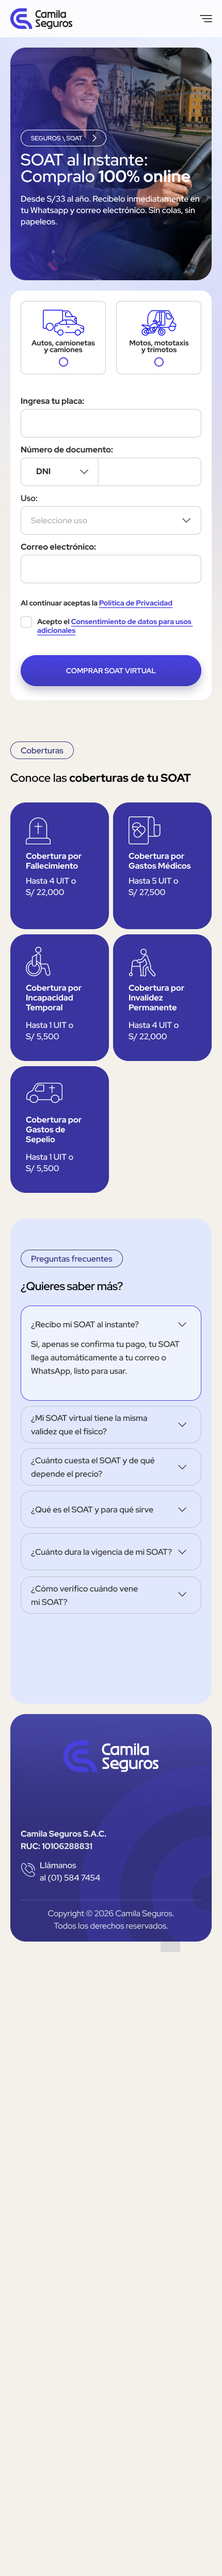
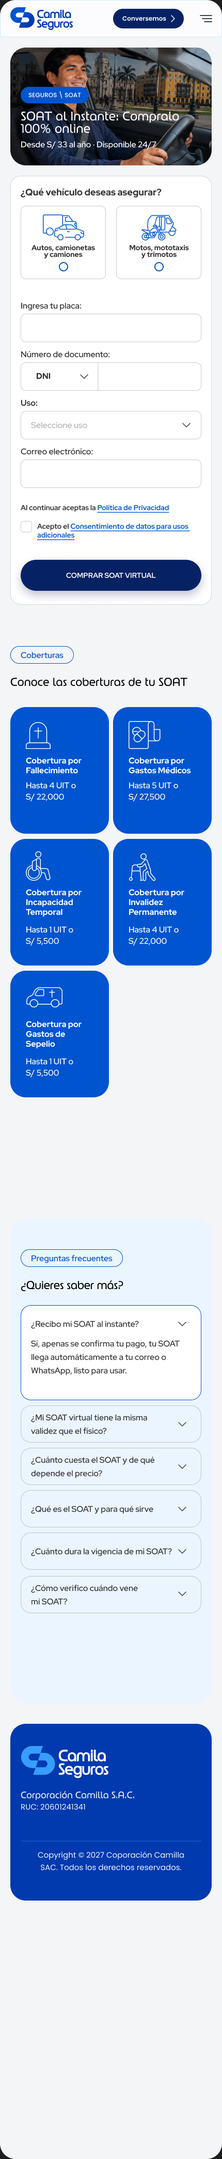
Shrink the mobile hero and title the home form, per the client's new design

diff --git a/features/home/components/home-hero.tsx b/features/home/components/home-hero.tsx
@@ -2,18 +2,21 @@ import Image from "next/image";
 import { Pill } from "@/components/ui/pill";
 import { heroBenefits } from "../content";
 
-// Hero copy (Figma node 197:420 and 438:506). The panel photo is rendered by HomeHeroBackdrop.
+// Hero copy (Figma desktop 197:420; mobile "Home Mobile v2" 1076:142, a 228px panel). The panel photo is rendered by HomeHeroBackdrop.
 export function HomeHero() {
   return (
-    <div className="flex min-h-112.5 flex-col items-start justify-end gap-3 px-5 pt-10 pb-25 text-white lg:min-h-150 lg:justify-start lg:gap-6 lg:px-0 lg:pt-31.5 lg:pb-0">
+    <div className="flex min-h-57 flex-col items-start justify-end gap-3 px-5 pt-10 pb-7.5 text-white lg:min-h-150 lg:justify-start lg:gap-6 lg:px-0 lg:pt-31.5 lg:pb-0">
       <Pill tone="light">
         Seguros \ SOAT
-        <Image src="/icons/chevron-right.svg" alt="" width={7.5} height={13.5} />
+        {/* Figma "Home Mobile v2" drops the chevron. */}
+        <Image src="/icons/chevron-right.svg" alt="" width={7.5} height={13.5} className="hidden lg:block" />
       </Pill>
-      <h1 className="max-w-md text-title font-medium md:text-display">
+      <h1 className="max-w-md text-headline font-medium lg:text-display">
         SOAT al Instante: Cómpralo <strong className="font-bold">100% online</strong>
       </h1>
-      <p className="max-w-lg text-body">
+      {/* Mobile v2 shortens the copy so the hero fits in 228px. */}
+      <p className="-mt-1 max-w-lg text-body font-medium lg:hidden">Desde S/ 33 al año · Disponible 24/7</p>
+      <p className="hidden max-w-lg text-body lg:block">
         Desde S/33 al año. Recíbelo inmediatamente en tu Whatsapp y correo electrónico. Sin colas, sin papeleos.
       </p>
       {/* Figma mobile hides the benefits. */}
@@ -32,14 +35,15 @@ export function HomeHero() {
   );
 }
 
-// The photo is 1420×600 (exported at 2x). On narrow panels it is cropped to keep
-// the driver in view, as in the Figma mobile frame.
-const PHOTO_POSITION = { objectPosition: "62% 50%" };
+// The photo is 1420×600 (exported at 2x). On the short mobile panel it is cropped
+// to its right side, where Figma mobile v2 frames the driver (and on tablets, which
+// crop it vertically, kept near the top so his face stays in view).
+const PHOTO_POSITION = { objectPosition: "100% 30%" };
 
 /** Rounded wide panel with the hero photo and the navy veil behind the copy. */
 export function HomeHeroBackdrop() {
   return (
-    <div aria-hidden className="absolute inset-x-5 top-0 h-112.5 overflow-hidden rounded-panel bg-brand-900 lg:h-150">
+    <div aria-hidden className="absolute inset-x-5 top-0 h-57 overflow-hidden rounded-panel bg-brand-900 lg:h-150">
       <Image
         src="/images/hero-banner.jpg"
         alt=""

diff --git a/app/design-system/page.tsx b/app/design-system/page.tsx
@@ -42,7 +42,9 @@ const colors = [
 const typeScale = [
   { name: "display · 42", className: "text-display font-medium", sample: "SOAT al Instante" },
   { name: "title · 32", className: "text-title font-medium", sample: "Conoce las coberturas" },
+  { name: "headline · 24", className: "text-headline font-medium", sample: "SOAT al Instante" },
   { name: "subtitle · 20", className: "text-subtitle font-bold", sample: "SOAT La Positiva" },
+  { name: "lead · 18", className: "text-lead font-bold", sample: "¿Qué vehículo deseas asegurar?" },
   { name: "body · 16", className: "text-body", sample: "Recíbelo al momento en tu email." },
   { name: "label · 16", className: "text-label font-bold", sample: "Ingresa tu placa:" },
   { name: "small · 14", className: "text-small font-bold", sample: "Al continuar aceptas la Política de Privacidad" },

diff --git a/app/page.tsx b/app/page.tsx
@@ -5,9 +5,9 @@ import { HomeHero, HomeHeroBackdrop } from "@/features/home/components/home-hero
 import { QuoteStartForm } from "@/features/quote/components/quote-start-form";
 import { plateFromQuery } from "@/features/quote/lib/plate";
 
-// Figma "SOAT al instante" (197:293) / "Home Mobile" (559:46).
+// Figma "SOAT al instante" (197:293) / "Home Mobile v2" (1076:142).
 // Desktop: 12-column grid on the 1120px content width; the form (5 columns = 448px)
-// overlaps the hero panel and runs alongside the coverages. Mobile (Figma 559:46):
+// overlaps the hero panel and runs alongside the coverages. Mobile (Figma 1076:142):
 // hero copy inset 40px, form and coverages edge to edge at 20px.
 // `?plate=ABC-123` prefills the plate (links from other sites or campaigns).
 export default async function HomePage({ searchParams }: PageProps<"/">) {

diff --git a/features/quote/components/quote-start-form.tsx b/features/quote/components/quote-start-form.tsx
@@ -77,8 +77,10 @@ export function QuoteStartForm({ initialPlate }: QuoteStartFormProps) {
   }
 
   return (
-    <Card tone="surface" className="px-5 pt-7.5 pb-7 md:px-10">
+    <Card tone="surface" className="px-5 pt-5 pb-7 md:px-10 lg:pt-7.5">
       <form ref={formRef} noValidate onSubmit={handleSubmit} className="flex flex-col gap-3.5">
+        {/* Figma 1076:141 (desktop, 20px) and 1076:373 (mobile v2, 18px). */}
+        <h2 className="text-lead font-bold text-ink lg:text-subtitle">¿Qué vehículo deseas asegurar?</h2>
         <CategoryTiles detected={category} onTileClick={() => plateRef.current?.focus()} />
 
         <Input

diff --git a/app/globals.css b/app/globals.css
@@ -43,8 +43,13 @@
   --text-title: 2rem; /* 32px section titles, prices */
   --text-title--line-height: 1.1;
   --text-title--letter-spacing: -0.02em;
+  --text-headline: 1.5rem; /* 24px hero on mobile (Figma "Home Mobile v2") */
+  --text-headline--line-height: 1;
+  --text-headline--letter-spacing: -0.02em;
   --text-subtitle: 1.25rem; /* 20px card titles */
   --text-subtitle--line-height: 1.2;
+  --text-lead: 1.125rem; /* 18px form heading on mobile */
+  --text-lead--line-height: 1.2;
   --text-body: 1rem; /* 16px */
   --text-body--line-height: 1.5;
   --text-label: 1rem; /* 16px bold field labels */

diff --git a/e2e/home.spec.ts b/e2e/home.spec.ts
@@ -23,6 +23,7 @@ test.beforeEach(async ({ page }) => {
 test("shows the hero, the form, coverages and FAQ without horizontal scroll", async ({ page }) => {
   await expect(page.getByRole("heading", { level: 1, name: /SOAT al Instante/ })).toBeVisible();
   await expect(form(page).submit).toBeVisible();
+  await expect(page.getByRole("heading", { level: 2, name: "¿Qué vehículo deseas asegurar?" })).toBeVisible();
   await expect(page.getByRole("heading", { name: /coberturas de tu SOAT/ })).toBeVisible();
   await expect(page.getByRole("heading", { name: "¿Quieres saber más?" })).toBeVisible();
 

diff --git a/DESIGN.md b/DESIGN.md
@@ -65,9 +65,11 @@ Una sola familia: **Red Hat Display** (`next/font/google`).
 
 | Token | Tamaño | Peso habitual | Uso |
 |---|---|---|---|
-| `text-display` | 42px, lh 1, -0.02em | medium + bold en la palabra clave | Hero. En mobile: `text-title md:text-display` |
+| `text-display` | 42px, lh 1, -0.02em | medium + bold en la palabra clave | Hero en desktop. En mobile: `text-headline lg:text-display` |
+| `text-headline` | 24px, lh 1, -0.02em | medium + bold en la palabra clave | Hero en mobile (Figma "Home Mobile v2") |
 | `text-title` | 32px, -0.02em | medium (+ bold) | Títulos de pantalla y sección, precio |
 | `text-subtitle` | 20px | bold / medium | Títulos de card, "PLACA: …", subtítulos de bloque |
+| `text-lead` | 18px | bold | Título del formulario del inicio en mobile ("¿Qué vehículo deseas asegurar?"; desktop: `text-subtitle`) |
 | `text-body` | 16px | regular / medium | Texto |
 | `text-label` | 16px | bold | Labels sobre el campo |
 | `text-small` | 14px | bold | Labels inset, legales |
@@ -190,7 +192,7 @@ Las pruebas automáticas no detectan problemas de apariencia (un anillo de foco 
 ### Pantallas en Figma
 | Pantalla | Nodo desktop | Nodo mobile |
 |---|---|---|
-| Home | `197:293` | `559:46` |
+| Home | `197:293` | `1076:142` ("Home Mobile v2", hero de 228px) |
 | Completa los datos del titular | `433:174` | `563:546` |
 | Ingresa los datos de su vehículo | `267:24` | `564:818` |
 | Cotización | `240:117` | `565:921` |
